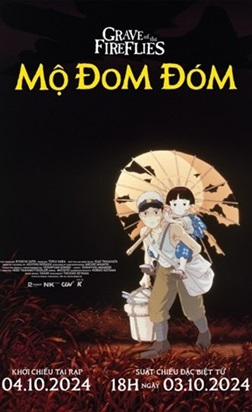
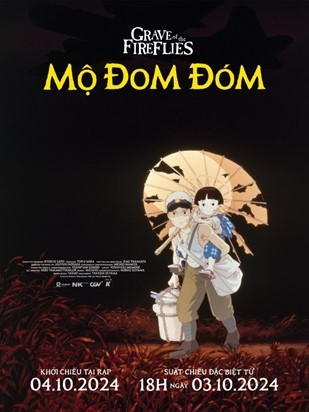
update

Changed region(s): [[0.0, 0.3495, 1.0, 1.0], [0.0556, 0.0583, 0.9444, 0.233], [0.4722, 0.4078, 0.5, 0.4369]]

diff --git a/src/page/ChonGio.java b/src/page/ChonGio.java
@@ -47,14 +47,14 @@ public class ChonGio extends JPanel{
 		
 		hinh_phim = new JLabel("New label");
 		hinh_phim.setIcon(new ImageIcon("src\\resources\\Image\\modomdom.jpg"));
-		hinh_phim.setBounds(40, 21, 251, 412);
+		hinh_phim.setBounds(40, 21, 308, 412);
 		add(hinh_phim);
 		
 		ten_phim = new JLabel();
 		ten_phim.setText("MỘ ĐOM ĐÓM");
 		ten_phim.setForeground(new Color(255, 142, 60));
 		ten_phim.setFont(Dosis_Bold_20);
-		ten_phim.setBounds(358, 11, 664, 63);
+		ten_phim.setBounds(368, 11, 664, 63);
 		add(ten_phim);
 		
 		mo_ta = new JTextArea();
@@ -64,7 +64,7 @@ public class ChonGio extends JPanel{
 		mo_ta.setEditable(false);
 		mo_ta.setDisabledTextColor(new Color(255, 255, 255));
 		mo_ta.setFont(Dosis_Bold_15);
-		mo_ta.setBounds(358, 85, 760, 347);
+		mo_ta.setBounds(368, 85, 760, 347);
 		add(mo_ta);
 		
 		lich_chieu = new JLabel("Lịch chiếu");
